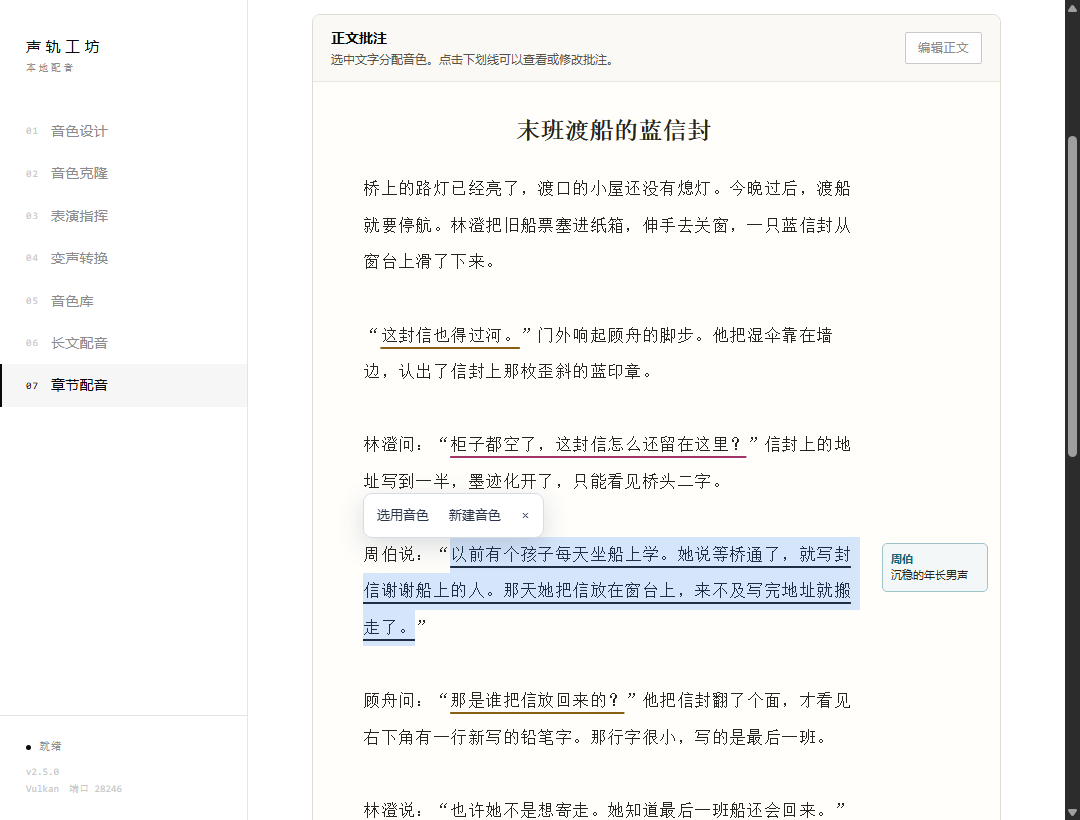
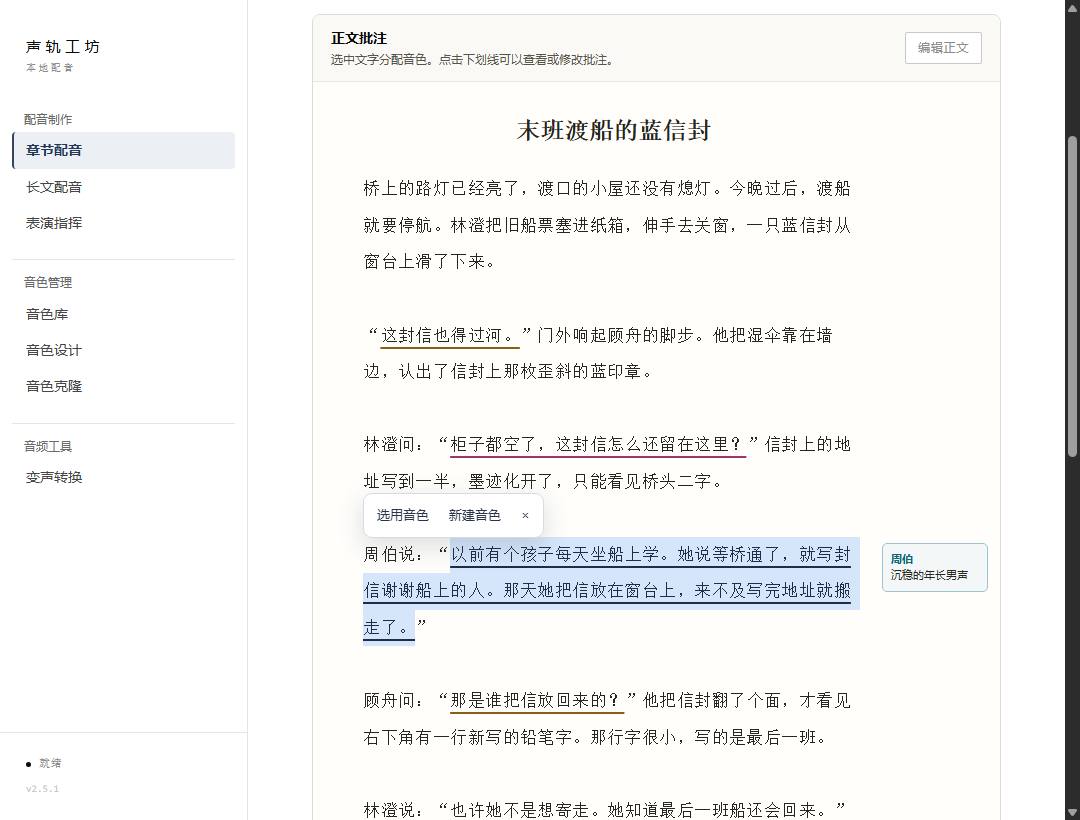
Group navigation by recording, voice management and tools (#10)

Changed region(s): [[0.0, 0.122, 0.1222, 0.4878], [0.0306, 0.8841, 0.1222, 0.9756], [0.0306, 0.5183, 0.0917, 0.6098]]

diff --git a/src/ui/style.css b/src/ui/style.css
@@ -41,16 +41,44 @@ button,input,textarea,select{font:inherit;color:inherit}
 .brand{padding:0 26px 34px;display:flex;flex-direction:column;gap:2px}
 .brand-mark{font-size:15px;letter-spacing:.3em;font-weight:400}
 .brand-sub{font-family:var(--mono);font-size:10px;letter-spacing:.24em;color:var(--muted)}
-.nav{display:flex;flex-direction:column}
-.nav-item{
-  display:flex;align-items:center;gap:12px;background:none;border:0;
-  border-left:2px solid transparent;padding:10px 24px;cursor:pointer;
-  text-align:left;color:var(--muted);letter-spacing:.02em;transition:color .12s,background .12s;
+.nav {
+  display: flex;
+  flex-direction: column;
+  gap: 18px;
+  min-height: 0;
+  overflow-y: auto;
+  padding: 0 12px 12px;
 }
-.nav-item:hover{background:var(--soft);color:var(--fg)}
-.nav-item.is-on{color:var(--fg);border-left-color:var(--fg);background:var(--soft)}
-.nav-idx{font-family:var(--mono);font-size:10px;letter-spacing:.1em;color:var(--line-strong)}
-.nav-item.is-on .nav-idx{color:var(--fg)}
+.nav-group + .nav-group { border-top: 1px solid var(--line); padding-top: 13px; }
+.nav-heading {
+  margin: 0 0 3px;
+  padding: 0 12px;
+  color: #696969;
+  font-size: 12px;
+  font-weight: 500;
+}
+.nav-group-items { display: flex; flex-direction: column; }
+.nav-item {
+  display: block;
+  width: 100%;
+  padding: 7px 12px;
+  background: none;
+  border: 0;
+  border-inline-start: 2px solid transparent;
+  border-radius: 4px;
+  color: #454545;
+  cursor: pointer;
+  text-align: start;
+  transition: color .12s, background .12s;
+}
+.nav-item:hover { background: var(--soft); color: var(--fg); }
+.nav-item.is-on {
+  background: #eceff3;
+  border-inline-start-color: #36465f;
+  color: #233957;
+  font-weight: 600;
+}
+.nav-item:focus-visible { outline: 2px solid #607396; outline-offset: -2px; }
 .side-foot{margin-top:auto;padding:22px 26px 0;border-top:1px solid var(--line)}
 .status{display:flex;align-items:center;gap:8px;font-family:var(--mono);font-size:11px;letter-spacing:.06em;color:var(--muted)}
 .dot{width:5px;height:5px;border-radius:50%;background:var(--line-strong);flex:0 0 5px}
@@ -281,9 +309,12 @@ audio{width:100%;height:34px;filter:grayscale(1)}
   .app{flex-direction:column}
   .side{width:auto;flex:none;height:auto;position:static;border-right:0;border-bottom:1px solid var(--line);padding:20px 0 0}
   .brand{padding:0 20px 18px}
-  .nav{flex-direction:row;overflow-x:auto}
-  .nav-item{border-left:0;border-bottom:2px solid transparent;white-space:nowrap;padding:8px 14px}
-  .nav-item.is-on{border-left-color:transparent;border-bottom-color:var(--fg)}
+  .nav{flex-direction:row;gap:10px;overflow-x:auto;overflow-y:hidden;padding-bottom:8px}
+  .nav-group{flex:0 0 auto}
+  .nav-group+.nav-group{border-top:0;border-inline-start:1px solid var(--line);padding-top:0;padding-inline-start:10px}
+  .nav-group-items{flex-direction:row}
+  .nav-item{width:auto;border-inline-start:0;border-bottom:2px solid transparent;white-space:nowrap;padding:6px 10px}
+  .nav-item.is-on{border-bottom-color:#36465f}
   .side-foot{display:none}
   .main{padding:32px 20px 90px}
   .grid2,.grid3{grid-template-columns:1fr}

diff --git a/src/ui/index.html b/src/ui/index.html
@@ -20,14 +20,29 @@
       <span class="brand-mark">声轨工坊</span>
       <span class="brand-sub">本地配音</span>
     </div>
-    <nav class="nav" id="nav">
-      <button class="nav-item" data-tab="design"><span class="nav-idx">01</span>音色设计</button>
-      <button class="nav-item" data-tab="clone"><span class="nav-idx">02</span>音色克隆</button>
-      <button class="nav-item" data-tab="direct"><span class="nav-idx">03</span>表演指挥</button>
-      <button class="nav-item" data-tab="convert"><span class="nav-idx">04</span>变声转换</button>
-      <button class="nav-item" data-tab="library"><span class="nav-idx">05</span>音色库</button>
-      <button class="nav-item" data-tab="longform"><span class="nav-idx">06</span>长文配音</button>
-      <button class="nav-item" data-tab="chapter"><span class="nav-idx">07</span>章节配音</button>
+    <nav class="nav" id="nav" aria-label="功能导航">
+      <section class="nav-group" aria-labelledby="nav-production">
+        <h2 id="nav-production" class="nav-heading">配音制作</h2>
+        <div class="nav-group-items">
+          <button class="nav-item" type="button" data-tab="chapter">章节配音</button>
+          <button class="nav-item" type="button" data-tab="longform">长文配音</button>
+          <button class="nav-item" type="button" data-tab="direct">表演指挥</button>
+        </div>
+      </section>
+      <section class="nav-group" aria-labelledby="nav-voices">
+        <h2 id="nav-voices" class="nav-heading">音色管理</h2>
+        <div class="nav-group-items">
+          <button class="nav-item" type="button" data-tab="library">音色库</button>
+          <button class="nav-item" type="button" data-tab="design">音色设计</button>
+          <button class="nav-item" type="button" data-tab="clone">音色克隆</button>
+        </div>
+      </section>
+      <section class="nav-group" aria-labelledby="nav-tools">
+        <h2 id="nav-tools" class="nav-heading">音频工具</h2>
+        <div class="nav-group-items">
+          <button class="nav-item" type="button" data-tab="convert">变声转换</button>
+        </div>
+      </section>
     </nav>
     <div class="side-foot">
       <div class="status" id="status"><i class="dot"></i><span id="statusText">连接中</span></div>
@@ -38,8 +53,8 @@
   <main class="main">
     <header class="top">
       <div class="top-main">
-        <h1 id="pageTitle">音色设计</h1>
-        <p id="pageDesc" class="page-desc">用一段文字描述你想要的声音，模型直接合成。</p>
+        <h1 id="pageTitle">章节配音</h1>
+        <p id="pageDesc" class="page-desc">为旁白和角色分配音色，再按原文顺序生成配音。</p>
       </div>
       <div class="top-actions">
         <button class="btn btn-sm" id="model-open" title="切换或下载模型">模型</button>

diff --git a/shell/main.js b/shell/main.js
@@ -251,6 +251,26 @@ async function selftest() {
       }
       check('首启显示下载和选择本地模型入口', firstRunReady);
       check('窗口标题显示产品名称', w.webContents.getTitle() === PRODUCT_NAME);
+      const groupedNavigation = await w.webContents.executeJavaScript(`(() => {
+        const groups = Array.from(document.querySelectorAll('.nav-group'));
+        if (groups.length !== 3 || document.querySelector('.nav-idx')) return false;
+        const expected = [
+          ['配音制作', 'chapter', 'longform', 'direct'],
+          ['音色管理', 'library', 'design', 'clone'],
+          ['音频工具', 'convert']
+        ];
+        return groups.every((group, index) => {
+          const buttons = [...group.querySelectorAll('button[data-tab]')];
+          const summary = [group.querySelector('h2').textContent, ...buttons.map(button => button.dataset.tab)];
+          return JSON.stringify(summary) === JSON.stringify(expected[index]) && buttons.every(button => {
+            button.click();
+            const visible = [...document.querySelectorAll('[data-panel]')].filter(panel => !panel.hidden);
+            return visible.length === 1 && visible[0].dataset.panel === button.dataset.tab &&
+              document.querySelector('.nav button[aria-current="page"]') === button;
+          });
+        });
+      })()`);
+      check('侧栏三组功能均可打开对应页面', groupedNavigation);
       const longformReady = await w.webContents.executeJavaScript(`(() => {
         const tab = document.querySelector('[data-tab="longform"]');
         if (!tab || typeof BreezeLongform === 'undefined') return false;

diff --git a/src/ui/app.js b/src/ui/app.js
@@ -307,7 +307,10 @@ var PAGES = {
 };
 function switchTab(name) {
   Array.prototype.forEach.call(document.querySelectorAll('.nav-item'), function (b) {
-    b.classList.toggle('is-on', b.dataset.tab === name);
+    var active = b.dataset.tab === name;
+    b.classList.toggle('is-on', active);
+    if (active) b.setAttribute('aria-current', 'page');
+    else b.removeAttribute('aria-current');
   });
   Array.prototype.forEach.call(document.querySelectorAll('.tab'), function (p) {
     p.hidden = p.dataset.panel !== name;
@@ -557,7 +560,7 @@ function boot() {
     setStatus('ok', '就绪');
     loadVoices();
     var h = (location.hash || '').replace('#', '');
-    switchTab(PAGES[h] ? h : 'design');
+    switchTab(Object.hasOwn(PAGES, h) ? h : 'chapter');
     if (h === 'api') $('api-open').click();
     if (h === 'model') $('model-open').click();
   }).catch(function (e) {

diff --git a/shell/backend.js b/shell/backend.js
@@ -4,7 +4,7 @@ const fs = require('fs');
 const path = require('path');
 const { spawn } = require('child_process');
 
-const VERSION = '2.5.0';
+const VERSION = '2.5.1';
 const DEFAULT_FILE = 'breeze-tts-2-q4_k.gguf';
 
 /* 官方 HoppouAI/Breeze-TTS-2.cpp 的 7 个量化档，字节数取自 HF 文件树 */
